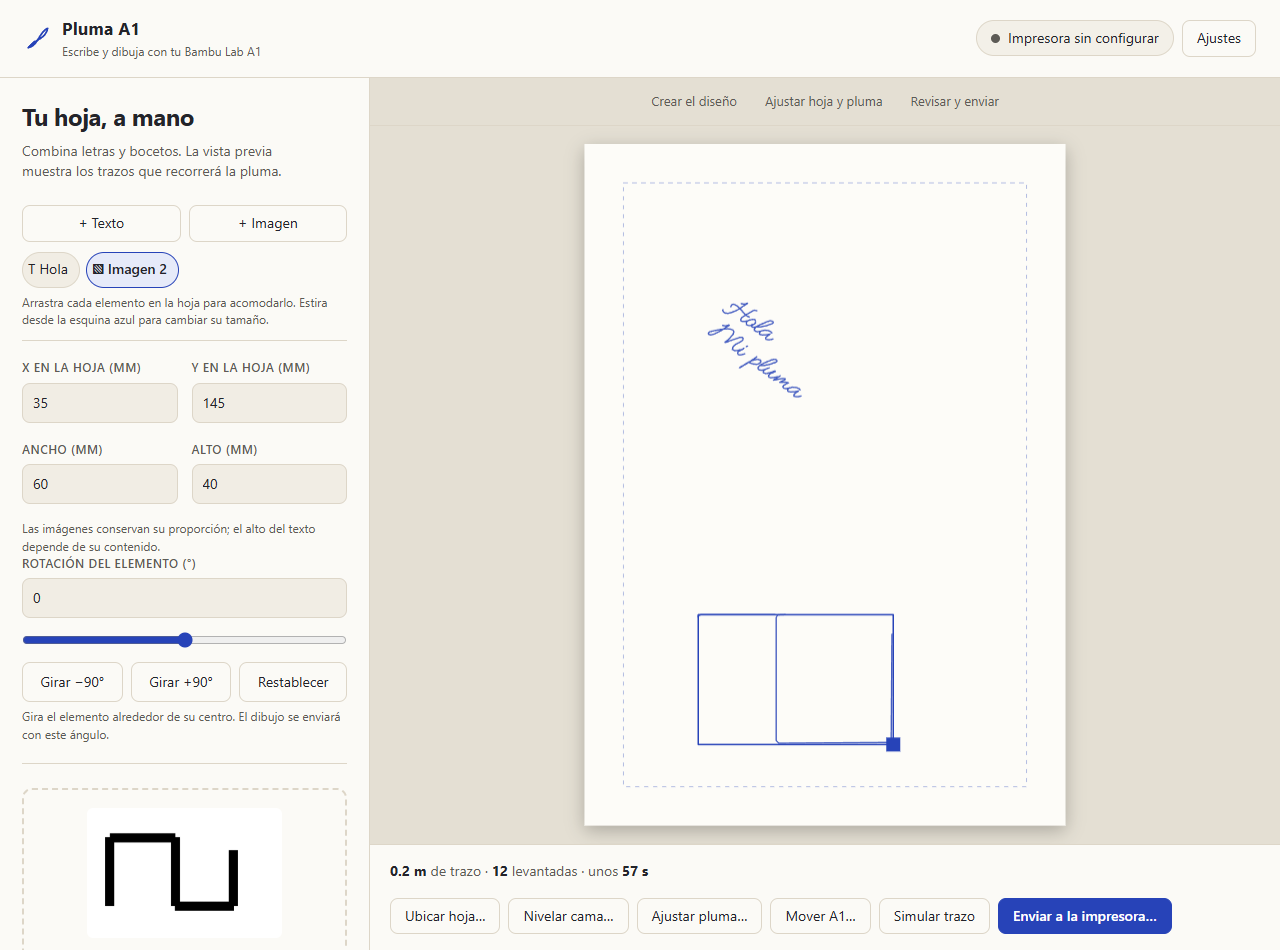
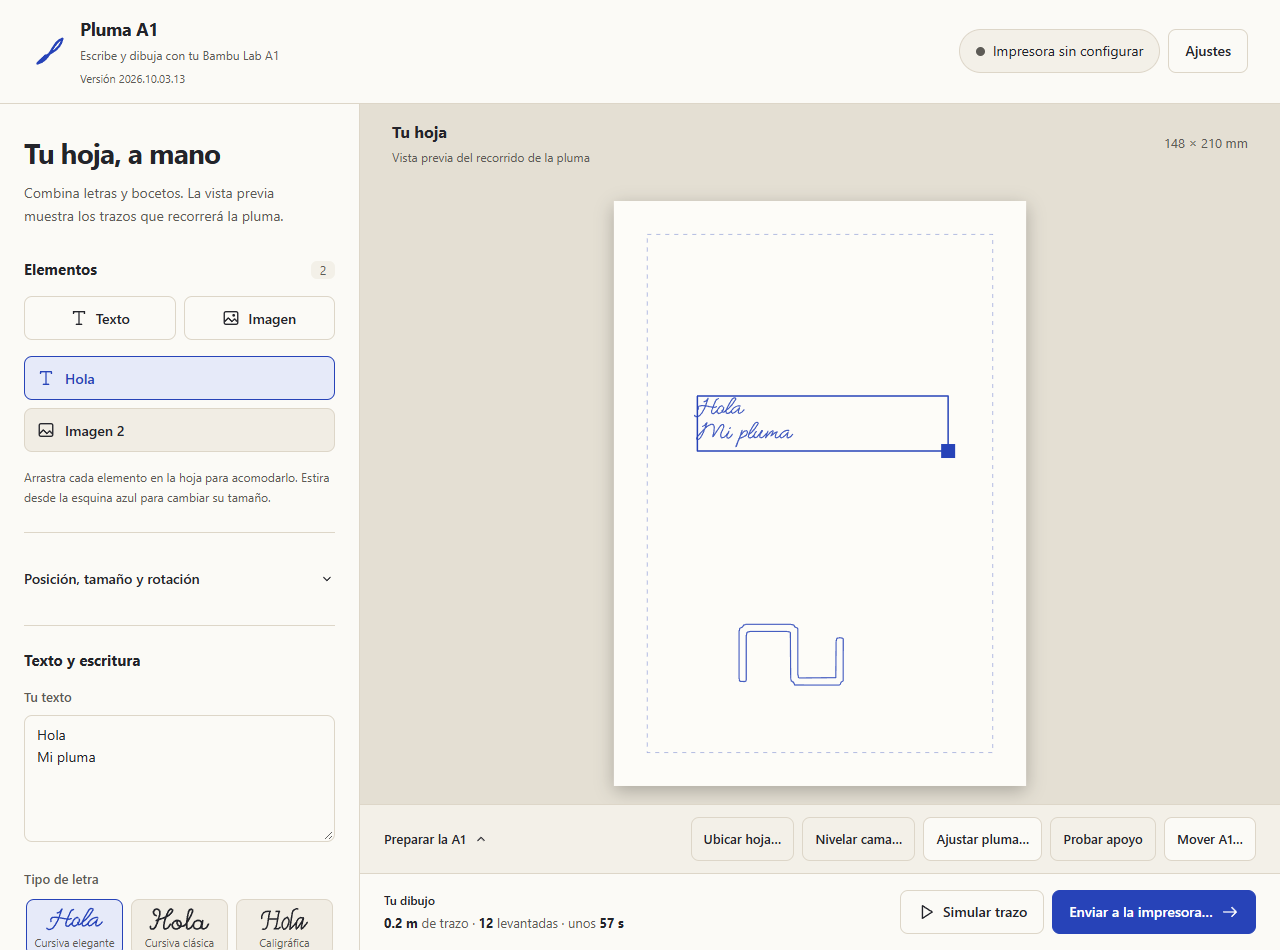
Polish the editor layout and responsive paper workspace

diff --git a/static/style.css b/static/style.css
@@ -14,44 +14,59 @@
   --bad: light-dark(#c8322b, #ef7069);
   --desk: light-dark(#e4dfd3, #111215);
   --r: 10px;
+  --space-1: .25rem;
+  --space-2: .5rem;
+  --space-3: .75rem;
+  --space-4: 1rem;
+  --space-5: 1.5rem;
+  --space-6: 2rem;
   accent-color: var(--ink);
 }
 * { box-sizing: border-box; }
 html, body { height: 100%; }
-body { margin: 0; font: 14px/1.45 system-ui, "Segoe UI", sans-serif; background: var(--bg); color: var(--text); display: flex; flex-direction: column; }
+body { margin: 0; font: .875rem/1.55 "Segoe UI", system-ui, sans-serif; background: var(--bg); color: var(--text); display: flex; flex-direction: column; }
 button, input, select, textarea { font: inherit; color: inherit; }
 [hidden] { display: none !important; }
 
-.top { display: flex; align-items: center; justify-content: space-between; padding: 16px 24px; border-bottom: 1px solid var(--line); background: var(--surface); }
-.brand { display: flex; align-items: center; gap: 10px; color: var(--ink); }
-.brand strong { display: block; font-size: 17px; letter-spacing: .2px; color: var(--text); }
-.brand span { font-size: 12px; color: var(--muted); }
-#appVersion { display: block; margin-top: 3px; font-size: 10px; }
+.top { display: flex; align-items: center; justify-content: space-between; gap: var(--space-5); padding: var(--space-4) var(--space-6); border-bottom: 1px solid var(--line); background: var(--surface); }
+.brand { display: flex; align-items: center; gap: var(--space-3); color: var(--ink); min-width: 0; }
+.brand > svg { flex: 0 0 auto; width: 36px; height: 36px; }
+.brand strong { display: block; font-size: 1.125rem; font-weight: 650; letter-spacing: -.02em; color: var(--text); }
+.brand span { font-size: .75rem; color: var(--muted); }
+#appVersion { display: block; margin-top: var(--space-1); font-size: .6875rem; }
 .photo-mode { margin-top: 8px; }
-.photo-mode.on { color: var(--ink); border-color: var(--ink); background: #e8ebf8; }
+.photo-mode.on { color: var(--ink); border-color: var(--ink); background: var(--ink-soft); }
 .top-actions { display: flex; gap: 8px; align-items: center; }
 
-.btn { border: 1px solid var(--line); background: var(--surface); padding: 7px 14px; border-radius: 8px; cursor: pointer; white-space: nowrap; }
-.btn:hover { border-color: var(--ink); }
+.btn { display: inline-flex; align-items: center; justify-content: center; gap: var(--space-2); border: 1px solid var(--line); background: var(--surface); padding: var(--space-2) var(--space-4); border-radius: 8px; cursor: pointer; white-space: nowrap; font-weight: 500; }
+.btn:hover:not(:disabled) { border-color: var(--ink); background: var(--ink-soft); color: var(--ink); }
 .btn:active { transform: translateY(1px); }
 .btn.primary { background: var(--ink); border-color: var(--ink); color: var(--on-ink); font-weight: 600; }
-.btn.primary:hover { filter: brightness(1.08); }
+.btn.primary:hover:not(:disabled) { background: var(--ink); color: var(--on-ink); filter: brightness(1.08); }
 .btn.ghost { background: transparent; }
 .btn.wide { width: 100%; }
-.btn:disabled { opacity: .5; cursor: default; }
+.btn:disabled { opacity: .5; cursor: not-allowed; transform: none; }
 :focus-visible { outline: 2px solid var(--ink); outline-offset: 2px; }
 
-.pill { display: flex; align-items: center; gap: 8px; border: 1px solid var(--line); background: var(--surface-2); border-radius: 999px; padding: 6px 14px; cursor: pointer; }
+.pill { display: flex; align-items: center; gap: var(--space-2); border: 1px solid var(--line); background: var(--surface-2); border-radius: 999px; padding: var(--space-2) var(--space-4); cursor: pointer; min-height: 44px; }
+.pill .dot { flex: 0 0 auto; }
 .pill .dot { width: 9px; height: 9px; border-radius: 50%; background: var(--muted); }
 .pill.ok .dot { background: var(--ok); }
 .pill.busy .dot { background: var(--warn); }
 .pill.bad .dot { background: var(--bad); }
 
-main { flex: 1; min-height: 0; display: grid; grid-template-columns: 370px 1fr; }
-.panel { background: var(--surface); border-right: 1px solid var(--line); overflow-y: auto; padding: 24px 22px 32px; }
-.editor-title { font-size: 24px; line-height: 1.2; margin: 0 0 10px; letter-spacing: -.02em; }
-.editor-intro { color: var(--muted); margin: 0 0 24px; max-width: 40ch; }
-.workflow { display: flex; flex-wrap: wrap; justify-content: center; gap: 12px 28px; padding: 14px 20px; color: var(--muted); font-size: 13px; border-bottom: 1px solid var(--line); }
+main { flex: 1; min-height: 0; display: grid; grid-template-columns: 360px minmax(0, 1fr); }
+.panel { background: var(--surface); border-right: 1px solid var(--line); overflow-y: auto; padding: var(--space-6) var(--space-5); }
+.editor-title { font-size: 1.75rem; line-height: 1.2; margin: 0 0 var(--space-3); letter-spacing: -.03em; font-weight: 650; }
+.editor-intro { color: var(--muted); margin: 0 0 var(--space-6); max-width: 40ch; line-height: 1.65; }
+.section-heading { display: flex; align-items: center; justify-content: space-between; gap: var(--space-3); margin-bottom: var(--space-4); }
+.section-heading h2, .section-title { font-size: .9375rem; line-height: 1.4; font-weight: 650; margin: 0; }
+.section-title { margin-bottom: var(--space-4); }
+.count { display: grid; place-items: center; min-width: 24px; padding-inline: var(--space-2); border-radius: 6px; background: var(--surface-2); color: var(--muted); font-size: .75rem; font-variant-numeric: tabular-nums; }
+.workspace-heading { display: flex; align-items: center; justify-content: space-between; gap: var(--space-4); padding: var(--space-4) var(--space-6); flex: 0 0 auto; }
+.workspace-heading h2 { margin: 0; font-size: 1rem; font-weight: 650; }
+.workspace-heading p { margin: var(--space-1) 0 0; color: var(--muted); font-size: .75rem; }
+.paper-info { color: var(--muted); font-size: .8125rem; font-variant-numeric: tabular-nums; white-space: nowrap; }
 .preflight { color: var(--text); background: var(--surface-2); padding: 14px; border-radius: 12px; line-height: 1.6; }
 .transport-hint { margin: -10px 0 22px; font-size: 14px; line-height: 1.5; }
 .operation-error { color: var(--bad); background: var(--surface-2); padding: 12px 14px; border-radius: 10px; overflow-wrap: anywhere; }
@@ -59,17 +74,22 @@ main { flex: 1; min-height: 0; display: grid; grid-template-columns: 370px 1fr; 
 input, textarea { caret-color: var(--ink); }
 * { scrollbar-color: var(--line) var(--surface); scrollbar-width: thin; }
 input::placeholder, textarea::placeholder { color: var(--muted); opacity: 1; }
-button { min-height: 36px; }
+button { min-height: 44px; }
 .tabs { display: grid; grid-template-columns: 1fr 1fr; background: var(--surface-2); border-radius: var(--r); padding: 4px; margin-bottom: 14px; }
 .tabs button { border: 0; background: transparent; padding: 8px; border-radius: 7px; cursor: pointer; font-weight: 600; color: var(--muted); }
 .tabs button[aria-selected="true"] { background: var(--surface); color: var(--text); box-shadow: 0 1px 3px rgb(0 0 0 / .12); }
 
-.els { border-bottom: 1px solid var(--line); margin-bottom: 14px; padding-bottom: 12px; }
-.rotation-controls { margin: 18px 0 24px; padding-bottom: 20px; border-bottom: 1px solid var(--line); }
+.els { border-bottom: 1px solid var(--line); margin-bottom: var(--space-5); padding-bottom: var(--space-5); }
+.rotation-controls { margin: 0 0 var(--space-5); padding-bottom: var(--space-5); border-bottom: 1px solid var(--line); }
+.rotation-controls summary { display: flex; align-items: center; justify-content: space-between; gap: var(--space-2); min-height: 44px; font-size: .875rem; font-weight: 600; cursor: pointer; list-style: none; }
+.rotation-controls summary::-webkit-details-marker { display: none; }
+.rotation-controls[open] summary { margin-bottom: var(--space-4); }
+.rotation-controls[open] summary svg { rotate: 180deg; }
 .rotation-controls .field { margin-bottom: 10px; }
 .rotation-controls input[type="number"] { width: 100%; min-height: 40px; border: 1px solid var(--line); background: var(--surface-2); border-radius: 8px; padding: 8px 10px; }
 .rotation-controls input[type="range"] { width: 100%; margin: 4px 0 14px; }
-.rotation-actions { display: flex; flex-wrap: wrap; gap: 8px; }
+.rotation-actions { display: flex; flex-wrap: wrap; gap: var(--space-2); }
+.rotation-actions .btn { padding-inline: var(--space-2); font-size: .8125rem; }
 .rotation-actions .btn { flex: 1 1 auto; min-height: 40px; }
 .geometry-grid { display: grid; grid-template-columns: repeat(2, minmax(0, 1fr)); gap: 8px 14px; }
 .geometry-grid input { width: 100%; min-width: 0; min-height: 40px; border: 1px solid var(--line); background: var(--surface-2); border-radius: 8px; padding: 8px 10px; }
@@ -86,35 +106,42 @@ dialog:has(.crop-dlg) { max-width: min(94vw, 720px); max-height: 92dvh; overflow
 .chip span { max-width: 150px; overflow: hidden; text-overflow: ellipsis; white-space: nowrap; }
 
 .field { display: block; margin-bottom: 22px; }
-.lbl { display: flex; justify-content: space-between; font-size: 12px; font-weight: 600; color: var(--muted); text-transform: uppercase; letter-spacing: .5px; margin-bottom: 6px; }
+.lbl { display: flex; justify-content: space-between; gap: var(--space-2); font-size: .8125rem; font-weight: 500; color: var(--muted); margin-bottom: var(--space-2); }
 .lbl output { color: var(--text); text-transform: none; letter-spacing: 0; font-variant-numeric: tabular-nums; }
-textarea, input:not([type=range]):not([type=checkbox]):not([type=radio]):not([type=color]), select { width: 100%; border: 1px solid var(--line); background: var(--bg); border-radius: 8px; padding: 8px 10px; }
+textarea, input:not([type=range]):not([type=checkbox]):not([type=radio]):not([type=color]), select { width: 100%; border: 1px solid var(--line); background: var(--surface); border-radius: 8px; padding: var(--space-2) var(--space-3); min-height: 44px; }
 textarea { resize: vertical; min-height: 120px; }
-input[type=range] { width: 100%; margin: 0; }
+input[type=range] { width: 100%; margin: 0; min-height: 24px; cursor: pointer; }
 .check { display: flex; gap: 8px; align-items: center; margin-bottom: 12px; cursor: pointer; }
-.hint { font-size: 12px; color: var(--muted); margin: 6px 0 0; }
+.hint { font-size: .75rem; color: var(--muted); margin: var(--space-3) 0 0; line-height: 1.65; }
 
-.seg { display: flex; border: 1px solid var(--line); border-radius: 8px; overflow: hidden; }
-.seg button { flex: 1; border: 0; border-right: 1px solid var(--line); background: var(--bg); padding: 7px 4px; cursor: pointer; }
+.seg { display: flex; gap: var(--space-1); border: 1px solid var(--line); background: var(--surface-2); border-radius: 8px; padding: var(--space-1); }
+.seg button { flex: 1; min-width: 0; border: 0; border-radius: 5px; background: transparent; padding: var(--space-2) var(--space-1); cursor: pointer; font-size: .8125rem; }
+.seg button:hover:not(.on) { background: var(--surface); }
 .seg button:last-child { border-right: 0; }
 .seg button.on { background: var(--ink-soft); color: var(--ink); font-weight: 600; }
 
-.fonts { display: grid; grid-template-columns: 1fr 1fr 1fr; gap: 6px; max-height: 190px; overflow-y: auto; padding: 2px; }
+.fonts { display: grid; grid-template-columns: 1fr 1fr 1fr; gap: var(--space-2); max-height: 228px; overflow-y: auto; padding: 2px; }
 .fonts button { border: 1px solid var(--line); background: var(--bg); border-radius: 8px; padding: 6px 4px 4px; cursor: pointer; display: grid; gap: 2px; justify-items: center; }
 .fonts button svg { height: 26px; width: 100%; }
 .fonts button path { fill: none; stroke: currentColor; stroke-width: .55; stroke-linecap: round; stroke-linejoin: round; }
-.fonts button small { font-size: 10.5px; color: var(--muted); }
+.fonts button small { font-size: .6875rem; color: var(--muted); }
 .fonts button.on { border-color: var(--ink); background: var(--ink-soft); color: var(--ink); }
 
 .drop { display: grid; place-items: center; gap: 8px; text-align: center; border: 2px dashed var(--line); border-radius: var(--r); padding: 18px; margin-bottom: 14px; cursor: pointer; color: var(--muted); }
 .drop.over, .drop:hover { border-color: var(--ink); color: var(--ink); }
 .drop img { max-width: 100%; max-height: 130px; border-radius: 6px; }
 
-.colors { border-top: 1px solid var(--line); margin-top: 6px; padding-top: 14px; }
+.colors { border-top: 1px solid var(--line); margin-top: var(--space-5); padding-top: var(--space-5); }
 .chips { display: flex; flex-wrap: wrap; gap: 6px; }
 .chip { display: flex; align-items: center; gap: 6px; border: 1px solid var(--line); background: var(--bg); border-radius: 999px; padding: 4px 11px 4px 5px; cursor: pointer; }
 .chip i { width: 16px; height: 16px; border-radius: 50%; background: var(--c); border: 1px solid rgb(0 0 0 / .2); }
 .chip.on { border-color: var(--ink); background: var(--ink-soft); font-weight: 600; }
+#elList { display: grid; gap: var(--space-2); margin-block: var(--space-4); }
+#elList .chip { border-radius: 8px; padding: var(--space-2) var(--space-3); width: 100%; text-align: left; font-weight: 500; }
+#elList .chip span { max-width: 100%; }
+#elList .element-icon { flex: 0 0 auto; margin-right: var(--space-1); }
+.btn > svg { flex: 0 0 auto; }
+#elList .chip.on { color: var(--ink); }
 
 .stage { min-width: 0; min-height: 0; display: flex; flex-direction: column; background: var(--desk); }
 .canvas-wrap { flex: 1; min-height: 0; position: relative; }
@@ -129,8 +156,18 @@ input[type=range] { width: 100%; margin: 0; }
 .legend .chip.off { opacity: .45; text-decoration: line-through; }
 .pager { display: flex; align-items: center; gap: 8px; }
 .pager .btn { padding: 2px 11px; font-size: 17px; }
-.bar { display: flex; flex-wrap: wrap; align-items: center; justify-content: space-between; gap: 16px; padding: 16px 20px; background: var(--surface); border-top: 1px solid var(--line); }
+.preparation { background: var(--surface-2); padding: var(--space-3) var(--space-5); border-top: 1px solid var(--line); flex: 0 0 auto; }
+.preparation summary { display: flex; align-items: center; gap: var(--space-2); width: fit-content; min-height: 44px; cursor: pointer; list-style: none; font-weight: 600; font-size: .8125rem; }
+.preparation summary::-webkit-details-marker { display: none; }
+.preparation[open] summary svg { rotate: 180deg; }
+.preparation[open] { display: grid; grid-template-columns: auto minmax(0, 1fr); align-items: start; gap: var(--space-4); }
+.preparation-actions { display: flex; flex-wrap: wrap; justify-content: flex-end; gap: var(--space-2); }
+.preparation .btn { padding-inline: var(--space-3); font-size: .8125rem; }
+.bar { display: flex; flex-wrap: wrap; align-items: center; justify-content: space-between; gap: var(--space-4); padding: var(--space-4) var(--space-5); background: var(--surface); border-top: 1px solid var(--line); flex: 0 0 auto; }
+.drawing-summary { flex: 1 1 210px; }
+.summary-label { display: block; font-size: .75rem; font-weight: 600; color: var(--text); margin-bottom: var(--space-1); }
 .stats { color: var(--muted); font-variant-numeric: tabular-nums; }
+.stats { font-size: .8125rem; }
 .stats b { color: var(--text); }
 .bar-actions { display: flex; flex-wrap: wrap; justify-content: flex-end; gap: 8px; }
 
@@ -138,8 +175,8 @@ dialog { border: 0; border-radius: 14px; padding: 0; background: var(--surface);
 dialog:has(.dlg.wide) { max-width: min(94vw, 860px); }
 dialog:has(.move-dlg) { max-width: min(94vw, 580px); max-height: 90dvh; }
 dialog::backdrop { background: rgb(0 0 0 / .45); }
-.dlg { padding: 20px 22px; }
-.dlg h2 { margin: 0 0 14px; font-size: 18px; }
+.dlg { padding: var(--space-5); }
+.dlg h2 { margin: 0 0 var(--space-4); font-size: 1.25rem; letter-spacing: -.02em; }
 .dlg-actions { display: flex; flex-wrap: wrap; gap: 8px; margin-top: 20px; }
 .grow { flex: 1; }
 #guideList { padding-left: 20px; margin: 10px 0 0; }
@@ -187,25 +224,50 @@ legend { font-weight: 600; padding: 0 6px; }
 
 .url { color: var(--text); font-size: 14px; user-select: all; }
 
+@media (max-width: 1100px) and (min-width: 821px) {
+  main { grid-template-columns: 320px minmax(0, 1fr); }
+  .panel { padding-inline: var(--space-4); }
+  .preparation[open] { grid-template-columns: 1fr; gap: var(--space-2); }
+  .preparation-actions { justify-content: flex-start; }
+}
+
 @media (max-width: 820px) {
   /* celular: la página se desplaza entera, con la hoja arriba y los controles debajo */
   html, body { height: auto; }
   body { display: block; }
   main { display: flex; flex-direction: column; }
-  .stage { order: -1; height: 64svh; }
+  .stage { order: -1; height: auto; }
+  .canvas-wrap { flex: none; height: 58svh; min-height: 360px; }
   .panel { border-right: 0; border-top: 1px solid var(--line); overflow: visible; }
   .bar { flex-wrap: wrap; }
-  .top { padding: 8px 12px; gap: 8px; position: sticky; top: 0; z-index: 5; }
-  .brand div { display: none; }
-  .pill { padding: 5px 10px; font-size: 12.5px; }
+  .top { display: grid; grid-template-columns: minmax(0, 1fr) auto; padding: var(--space-3) var(--space-4); gap: var(--space-2); }
+  .brand span { display: none; }
+  .brand strong { font-size: 1.0625rem; }
+  .brand > svg { width: 28px; height: 28px; }
+  #appVersion { display: none; }
+  .top-actions { display: contents; }
+  #openSettings { grid-column: 2; grid-row: 1; }
+  .pill { grid-column: 1 / -1; grid-row: 2; width: fit-content; max-width: 100%; padding: var(--space-2) var(--space-3); font-size: .8125rem; }
+  .pill span { min-width: 0; overflow: hidden; text-overflow: ellipsis; white-space: nowrap; }
   .cols { grid-template-columns: 1fr; }
   fieldset.span2 { grid-column: auto; }
   .fonts { max-height: none; }
   input:not([type=checkbox]):not([type=radio]), select, textarea { font-size: 16px; }
   .btn { min-height: 44px; }
-  .workflow { font-size: 12px; gap: 8px 16px; padding: 10px; }
-  .stage { min-height: 520px; }
-  .bar-actions { justify-content: flex-start; }
+  .workspace-heading { padding: var(--space-4); }
+  .workspace-heading p { max-width: 25ch; }
+  .paper-info { font-size: .75rem; }
+  .stage { min-height: 0; }
+  .panel { padding: var(--space-6) var(--space-5); }
+  .preparation { padding: var(--space-3) var(--space-4); }
+  .preparation[open] { grid-template-columns: 1fr; gap: var(--space-2); }
+  .preparation summary { width: 100%; justify-content: space-between; }
+  .preparation-actions { display: grid; grid-template-columns: repeat(2, minmax(0, 1fr)); }
+  .preparation .btn { white-space: normal; }
+  .bar { padding: var(--space-4); gap: var(--space-3); }
+  .bar-actions { display: grid; grid-template-columns: auto minmax(0, 1fr); width: 100%; }
+  .bar-actions .btn { white-space: normal; padding-inline: var(--space-3); }
+  .bar-actions .btn > svg { display: none; }
   .move-dlg { padding: 20px 16px; font-size: 16px; }
   .direct-controls { padding: 12px; }
   .jog-grid { grid-template-columns: auto minmax(58px, 1fr) minmax(124px, 2fr); gap: 10px 8px; }
@@ -216,3 +278,6 @@ legend { font-weight: 600; padding: 0 6px; }
   .banner span { flex-basis: 100%; }
 }
 .stats .warn { color: var(--bad); }
+@media (prefers-reduced-motion: reduce) {
+  .btn:active { transform: none; }
+}

diff --git a/static/index.html b/static/index.html
@@ -8,7 +8,7 @@
 <meta name="theme-color" content="#2743b8">
 <link rel="manifest" href="manifest.webmanifest">
 <link rel="icon" href="icon-192.png">
-<link rel="stylesheet" href="style.css">
+<link rel="stylesheet" href="style.css?v=20261003-design">
 </head>
 <body>
 <header class="top">
@@ -27,16 +27,18 @@
     <h1 class="editor-title">Tu hoja, a mano</h1>
     <p class="editor-intro">Combina letras y bocetos. La vista previa muestra los trazos que recorrerá la pluma.</p>
     <div class="els">
+      <div class="section-heading"><h2>Elementos</h2><span id="elementCount" class="count"></span></div>
       <div class="els-add">
-        <button id="addText" class="btn" type="button">+ Texto</button>
-        <button id="addImage" class="btn" type="button">+ Imagen</button>
+        <button id="addText" class="btn" type="button"><svg viewBox="0 0 20 20" width="18" height="18" aria-hidden="true"><path d="M4 5V3h12v2M10 3v14M7 17h6" fill="none" stroke="currentColor" stroke-width="1.5" stroke-linecap="round"/></svg>Texto</button>
+        <button id="addImage" class="btn" type="button"><svg viewBox="0 0 20 20" width="18" height="18" aria-hidden="true"><rect x="2.5" y="3" width="15" height="14" rx="2" fill="none" stroke="currentColor" stroke-width="1.5"/><path d="m3 14 4-4 4 4 3-3 3 3" fill="none" stroke="currentColor" stroke-width="1.5" stroke-linejoin="round"/><circle cx="13" cy="7" r="1.5" fill="currentColor"/></svg>Imagen</button>
       </div>
       <div id="elList" class="chips"></div>
       <p class="hint">Arrastra cada elemento en la hoja para acomodarlo. Estira desde la esquina azul para cambiar su tamaño.</p>
     </div>
     <p id="noSel" class="hint" hidden>Toca un elemento en la hoja para editarlo, o añade uno nuevo.</p>
 
-    <section id="rotationControls" class="rotation-controls" hidden aria-label="Rotación del elemento">
+    <details id="rotationControls" class="rotation-controls" hidden aria-label="Posición, tamaño y rotación del elemento">
+      <summary>Posición, tamaño y rotación<svg viewBox="0 0 20 20" width="16" height="16" aria-hidden="true"><path d="m6 8 4 4 4-4" fill="none" stroke="currentColor" stroke-width="1.5" stroke-linecap="round" stroke-linejoin="round"/></svg></summary>
       <div class="geometry-grid">
         <label class="field"><span class="lbl">X en la hoja (mm)</span><input id="elementX" type="number" step="0.5"></label>
         <label class="field"><span class="lbl">Y en la hoja (mm)</span><input id="elementY" type="number" step="0.5"></label>
@@ -54,12 +56,13 @@
         <button class="btn ghost" id="rotateReset" type="button">Restablecer</button>
       </div>
       <p class="hint">Gira el elemento alrededor de su centro. El dibujo se enviará con este ángulo.</p>
-    </section>
+    </details>
 
     <section id="tab-text" class="tab-body" hidden>
+      <h2 class="section-title">Texto y escritura</h2>
       <label class="field">
         <span class="lbl">Tu texto</span>
-        <textarea id="text" rows="9" spellcheck="false" placeholder="Escribe aquí lo que quieres que la pluma transcriba…"></textarea>
+        <textarea id="text" rows="5" spellcheck="false" placeholder="Escribe aquí lo que quieres que la pluma transcriba…"></textarea>
       </label>
       <div class="field">
         <span class="lbl">Tipo de letra</span>
@@ -77,6 +80,7 @@
     </section>
 
     <section id="tab-image" class="tab-body" hidden>
+      <h2 class="section-title">Imagen y trazos</h2>
       <label id="drop" class="drop">
         <input id="file" type="file" accept="image/*" hidden>
         <img id="thumb" alt="" hidden>
@@ -117,20 +121,28 @@
     </section>
   </aside>
 
-  <section class="stage">
-    <div class="workflow"><span>Crear el diseño</span><span>Ajustar hoja y pluma</span><span>Revisar y enviar</span></div>
+  <section class="stage" aria-label="Vista previa del dibujo">
+    <div class="workspace-heading">
+      <div><h2>Tu hoja</h2><p>Vista previa del recorrido de la pluma</p></div>
+      <span id="paperInfo" class="paper-info"></span>
+    </div>
     <div id="banner" class="banner" hidden></div>
     <div class="canvas-wrap"><canvas id="cv"></canvas><div id="busy" class="busy" role="status" hidden>Convirtiendo…</div></div>
-    <footer class="bar">
-      <div id="stats" class="stats">—</div>
-      <div class="bar-actions">
+    <details class="preparation" open>
+      <summary>Preparar la A1<svg viewBox="0 0 20 20" width="16" height="16" aria-hidden="true"><path d="m6 8 4 4 4-4" fill="none" stroke="currentColor" stroke-width="1.5" stroke-linecap="round" stroke-linejoin="round"/></svg></summary>
+      <div class="preparation-actions">
         <button id="guide" class="btn ghost" type="button">Ubicar hoja…</button>
         <button id="level" class="btn ghost" type="button">Nivelar cama…</button>
         <button id="adjust" class="btn" type="button">Ajustar pluma…</button>
         <button id="contactTest" class="btn ghost" type="button">Probar apoyo</button>
         <button id="movePrinter" class="btn" type="button">Mover A1…</button>
-        <button id="simulate" class="btn ghost" type="button">Simular trazo</button>
-        <button id="send" class="btn primary" type="button">Enviar a la impresora…</button>
+      </div>
+    </details>
+    <footer class="bar">
+      <div class="drawing-summary"><span class="summary-label">Tu dibujo</span><div id="stats" class="stats" aria-live="polite">—</div></div>
+      <div class="bar-actions">
+        <button id="simulate" class="btn ghost" type="button"><svg viewBox="0 0 20 20" width="18" height="18" aria-hidden="true"><path d="m6 3 11 7-11 7z" fill="none" stroke="currentColor" stroke-width="1.5" stroke-linejoin="round"/></svg>Simular trazo</button>
+        <button id="send" class="btn primary" type="button">Enviar a la impresora…<svg viewBox="0 0 20 20" width="18" height="18" aria-hidden="true"><path d="M3 10h14m-5-5 5 5-5 5" fill="none" stroke="currentColor" stroke-width="1.5" stroke-linecap="round" stroke-linejoin="round"/></svg></button>
       </div>
     </footer>
   </section>
@@ -366,6 +378,6 @@
 
 <div id="toast" class="toast" role="status" popover="manual"></div>
 <!-- type=module: las variables del programa no chocan con las que inyectan las extensiones del navegador -->
-<script type="module" src="app.js"></script>
+<script type="module" src="app.js?v=20261003-design"></script>
 </body>
 </html>

diff --git a/static/app.js b/static/app.js
@@ -193,6 +193,7 @@ async function compose() {
 
 const fmtTime = s => s < 90 ? `${Math.round(s)} s` : s < 5400 ? `${Math.round(s / 60)} min` : `${(s / 3600).toFixed(1)} h`;
 function paintStats() {
+  if (R.geo?.paper) $('#paperInfo').textContent = R.geo.paper.map(v => Number(v.toFixed(1))).join(' × ') + ' mm';
   const page = R.job && R.job.pages[0];
   const has = !!(page && page.layers.length);
   const st = has && page.stats;
@@ -269,8 +270,9 @@ function paintColors() {
 
 function syncPanel() {
   const el = sel();
+  $('#elementCount').textContent = S.elements.length;
   $('#elList').innerHTML = S.elements.map(e => `
-    <button type="button" class="chip ${e.id === S.sel ? 'on' : ''}" data-id="${e.id}"><span>${e.type === 'image' ? '▧' : 'T'} ${esc(label(e))}</span></button>`).join('');
+    <button type="button" class="chip ${e.id === S.sel ? 'on' : ''}" data-id="${e.id}" aria-pressed="${e.id === S.sel}"><svg class="element-icon" viewBox="0 0 20 20" width="18" height="18" aria-hidden="true" fill="none" stroke="currentColor" stroke-width="1.5" stroke-linecap="round" stroke-linejoin="round">${e.type === 'image' ? '<rect x="2.5" y="3" width="15" height="14" rx="2"/><path d="m3 14 4-4 4 4 3-3 3 3"/>' : '<path d="M4 5V3h12v2M10 3v14M7 17h6"/>'}</svg><span>${esc(label(e))}</span></button>`).join('');
   $('#tab-text').hidden = !el || el.type !== 'text';
   $('#tab-image').hidden = !el || el.type !== 'image';
   $('#tab-colors').hidden = !el;
@@ -914,7 +916,7 @@ async function init() {
   ta.addEventListener('input', () => {
     const el = sel(); if (!el || el.type !== 'text') return;
     el.text = ta.value; touch(el);
-    const chip = $(`#elList [data-id="${el.id}"] span`); if (chip) chip.textContent = 'T ' + label(el);
+    const chip = $(`#elList [data-id="${el.id}"] span`); if (chip) chip.textContent = label(el);
   });
 
   $('#addText').addEventListener('click', () => { const el = addText(); select(el.id); touch(el, true); ta.focus(); ta.select(); });

diff --git a/README.md b/README.md
@@ -18,7 +18,9 @@ Texto manuscrito, dibujos de una línea y composición sobre una hoja, desde una
 
 Pluma A1 convierte texto e imágenes en recorridos de pluma para una Bambu Lab A1 con soporte de bolígrafo. Coloca los elementos, revisa los trazos y envía comandos de movimiento desde tu PC por la red local.
 
-![Editor de Pluma A1 con texto rotado y una imagen convertida en trazos](docs/assets/editor.png)
+![Editor de Pluma A1 con los elementos, la hoja y los controles de preparación y envío](docs/assets/editor.png)
+
+El editor separa la creación del diseño, la preparación de la A1 y el envío. Puedes plegar **Posición, tamaño y rotación** para concentrarte en el texto o la imagen. La vista previa muestra las dimensiones de tu hoja y la interfaz se adapta a computadora, celular y al tema claro u oscuro del sistema.
 
 > **Estado:** proyecto experimental. Hay 84 pruebas del motor y revisión del editor en escritorio y móvil. Incluyen una imagen de 4000 × 4000 píxeles convertida, rotada, exportada y transmitida íntegramente a un receptor de prueba. El usuario observó dibujos con tinta desigual entre zonas; la uniformidad de contacto, fluidez y precisión todavía requieren comprobación física. Las capturas usan diseños de prueba, sin conexión a una impresora.
 
